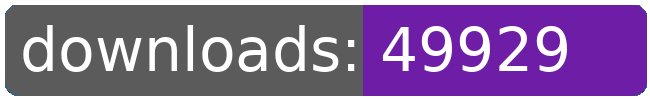
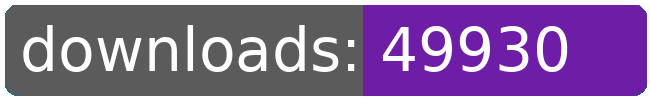
dl log written

Changed region(s): [[0.7692, 0.27, 0.8923, 0.72]]

diff --git a/README.md b/README.md
@@ -21,8 +21,8 @@
 		<td>3414</td>
 		<td>3435</td>
 		<td>3457</td>
-		<td>3472</td>
-		<td>+ 15</td>
+		<td>3473</td>
+		<td>+ 16</td>
 	</tr>
 	<tr>
 		<td>aberrant.kahet.outfitter</td>
@@ -274,8 +274,8 @@
 		<td></td>
 		<td></td>
 		<td></td>
-		<td>49929</td>
-		<td>332</td>
+		<td>49930</td>
+		<td>333</td>
 	</tr>
 </table>
 </sub></sup>
@@ -322,8 +322,8 @@
 		<td>3414</td>
 		<td>3435</td>
 		<td>3457</td>
-		<td>3472</td>
-		<td>+ 15</td>
+		<td>3473</td>
+		<td>+ 16</td>
 	</tr>
 	<tr>
 		<td>capture.archons</td>
@@ -553,8 +553,8 @@
 		<td></td>
 		<td></td>
 		<td></td>
-		<td>49929</td>
-		<td>332</td>
+		<td>49930</td>
+		<td>333</td>
 	</tr>
 </table>
 </sub></sup>
